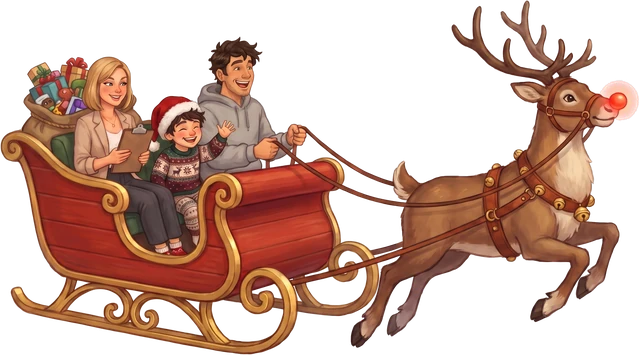
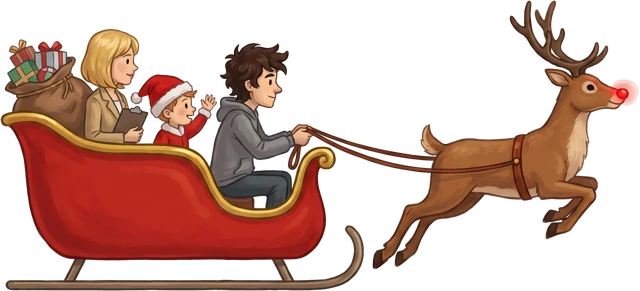
Prezentowy nalot: side-view sleigh art and parachuting pilots
Shot-down planes vanish in a dust cloud and the pilot floats away on a
parachute; the Inez boss escapes the same way. New strict side-view
sleigh art (its animation follows).

Claude-Session: https://claude.ai/code/session_016HTeTL1HdhdTLdUQNXXCi3

diff --git a/prezentowy-nalot/index.html b/prezentowy-nalot/index.html
@@ -82,7 +82,7 @@ const TOUCH=matchMedia('(pointer:coarse)').matches; if(TOUCH){ document.body.cla
 
 // ---------- assets ----------
 const IMG={}, img=n=>{ if(IMG[n]) return IMG[n]; const i=new Image(); i.src='art/'+n+'.webp'; IMG[n]=i; return i; };
-const ART=['bg_night','sleigh','plane_inez','plane_gay','plane_grinch','house1','house2','house3','house4','gift_red','gift_green','gift_blue','gift_purple','gift_stripe','gift_gold','candy','cookie','star','coal','kiss','phone','face_kaka','face_kaczor','face_mikolaj','face_inez'];
+const ART=['bg_night','sleigh','plane_inez','plane_gay','plane_grinch','house1','house2','house3','house4','gift_red','gift_green','gift_blue','gift_purple','gift_stripe','gift_gold','candy','cookie','star','coal','kiss','phone','para_inez','para_gay','para_grinch','face_kaka','face_kaczor','face_mikolaj','face_inez'];
 ART.forEach(img);
 let ANIM={}, HOUSES={};
 const ready=Promise.all([fetch('art/anim/anim.json').then(r=>r.json()).then(j=>{ ANIM=j; for(const k in j) ANIM[k].img=img('anim/'+k); }).catch(()=>{}),
@@ -133,7 +133,7 @@ hold('tShot','shot'); hold('tGift','gift'); hold('tList','list');
 
 // ---------- game state ----------
 let state='title', t0=0, last=performance.now(), shake=0;
-let P, shots, gifts, foes, ebullets, items, parts, popups, houses, scroll, lvlT, score, delivered, glows, boss, bossPhase, flyers, waves, nextHouseX, rng, houseCount;
+let P, shots, gifts, foes, ebullets, items, parts, popups, houses, scroll, lvlT, score, delivered, glows, boss, bossPhase, flyers, waves, dusts, nextHouseX, rng, houseCount;
 const SPEED=175; // ground scroll, px/s
 const LEVEL_LEN=150; // seconds of houses before the boss
 function mulberry(a){ return ()=>{ a|=0; a=a+0x6D2B79F5|0; let t=Math.imul(a^a>>>15,1|a); t=t+Math.imul(t^t>>>7,61|t)^t; return ((t^t>>>14)>>>0)/4294967296; }; }
@@ -142,7 +142,7 @@ const WAVES=[[7,'wave',1,180],[12,'wave',2,260],[18,'dive',1,140],[24,'wave',3,2
 let waveIdx=0;
 function reset(){
   P={x:260,y:220,vx:0,vy:0,hp:3,inv:2,shotCd:0,giftCd:0,triple:0,shield:0,anim:0,tilt:0};
-  shots=[]; gifts=[]; foes=[]; ebullets=[]; items=[]; parts=[]; popups=[]; houses=[]; flyers=[]; waves=[];
+  shots=[]; gifts=[]; foes=[]; ebullets=[]; items=[]; parts=[]; popups=[]; houses=[]; flyers=[]; waves=[]; dusts=[];
   scroll=0; lvlT=0; score=0; delivered=0; glows=2; boss=null; bossPhase=0; waveIdx=0; rng=mulberry(1225); nextHouseX=VW+80; houseCount=0; sub=null;
   // the first houses are already on screen so there is something to aim at right away
   for(let x=520;x<VW+80;x+=0){ x=spawnHouse(x); }
@@ -202,8 +202,9 @@ function update(dt){
   // power-ups
   items.forEach(it=>{ it.t+=dt; it.x+=it.vx*dt; it.y+=Math.sin(it.t*3)*30*dt; if(hitsPlayer(it.x,it.y,30)){ it.t=99; collect(it); } });
   items=items.filter(it=>it.t<12&&it.x>-40);
-  flyers.forEach(f=>{ f.t+=dt; f.vy+=420*dt; f.x+=f.vx*dt; f.y+=f.vy*dt; f.rot+=f.vr*dt; if(Math.random()<.5) parts.push({x:f.x+20,y:f.y,vx:30,vy:-20,t:.8,r:6+Math.random()*6,col:'rgba(70,70,80,.6)'}); });
-  flyers=flyers.filter(f=>f.y<VH+120);
+  flyers.forEach(f=>{ f.t+=dt; f.vy+=(70-f.vy)*Math.min(1,dt*2); f.x+=(-SPEED*.45+Math.sin(f.t*1.3)*25)*dt; f.y+=f.vy*dt; });
+  flyers=flyers.filter(f=>f.y<VH+60&&f.x>-160);
+  dusts.forEach(d=>{ d.t+=dt; d.x-=SPEED*.3*dt; }); dusts=dusts.filter(d=>d.t<1.1);
   waves.forEach(w=>{ w.r+=1350*dt; w.t+=dt;
     foes.forEach(f=>{ if(f.alive&&f.hp>0&&!w.hit.has(f)&&Math.hypot(f.x-w.x,f.y-w.y)<w.r){ w.hit.add(f); damageFoe(f,4); } });
     ebullets.forEach(b=>{ if(b.t>0&&Math.hypot(b.x-w.x,b.y-w.y)<w.r){ b.t=0; puff(b.x,b.y,'#ffe0a0',5); } });
@@ -234,7 +235,7 @@ function updateFoe(f,dt){ f.t+=dt; f.hit=Math.max(0,f.hit-dt);
   if(hitsPlayer(f.x,f.y,40)){ damageFoe(f,9); hurt(); }
   if(f.x<-200||f.y<-200) f.alive=false; }
 function damageFoe(f,d){ f.hp-=d; f.hit=.12; puff(f.x,f.y,'#ffffff',4); if(f.hp<=0){ f.alive=false; score+=150; popups.push({x:f.x,y:f.y-50,txt:'+150',t:1,col:'#fff'}); sfx('defeat',.5); burst(f.x,f.y,'#ff9ccf',16);
-    flyers.push({img:'plane_inez',x:f.x,y:f.y,vx:-80,vy:-120,rot:0,vr:-2.4,t:0,w:170});
+    dust(f.x,f.y,1); flyers.push({img:'para_'+f.kind,x:f.x,y:f.y-20,vy:-40,t:0,w:120});
     if(Math.random()<.22){ const r=Math.random(); items.push({kind:r<.4?'candy':r<.75?'cookie':'star',x:f.x,y:f.y,vx:-90,t:0}); } } }
 function collect(it){ sfx('pick',.5); if(it.kind==='candy'){ P.triple=10; popups.push({x:P.x,y:P.y-90,txt:'Laska cukrowa: potrójne śnieżki!',t:1.6,col:'#ffd1dc'}); }
   else if(it.kind==='cookie'){ P.hp=Math.min(5,P.hp+1); popups.push({x:P.x,y:P.y-90,txt:'Ciasteczko z mlekiem: +1 ❤',t:1.6,col:'#ffe27a'}); }
@@ -245,7 +246,7 @@ function useGlow(){ say('nm_glow',null,true); sfx('glide',.6); blip(220,880,.5,.
 // ---------- boss: Inez in her big pink biplane ----------
 function startBoss(){ boss={x:VW+260,y:240,hp:90,max:90,in:false,mode:'enter',mt:0,t:0,hit:0,dir:1}; bossPhase=1;
   say('ni_boss',()=>setTimeout(()=>say('nz_boss'),250),true); setMusic('music_1.mp3'); }
-function updateBoss(dt){ const b=boss; b.t+=dt; b.mt-=dt; b.hit=Math.max(0,b.hit-dt); if(b.hp<=0){ b.vy=(b.vy||-60)+260*dt; b.x-=60*dt; b.y+=b.vy*dt; b.rot=(b.rot||0)-.8*dt; if(Math.random()<.6) parts.push({x:b.x+40,y:b.y,vx:40,vy:-30,t:1,r:10+Math.random()*10,col:'rgba(70,70,80,.6)'}); if(b.y>VH+200&&state==='play') levelDone(); return; }
+function updateBoss(dt){ const b=boss; b.t+=dt; b.mt-=dt; b.hit=Math.max(0,b.hit-dt); if(b.hp<=0){ b.dead=(b.dead||0)+dt; if(b.dead>4&&state==='play') levelDone(); return; }
   const angry=b.hp<b.max/2;
   if(b.mode==='enter'){ b.x+=(1010-b.x)*Math.min(1,dt*1.5); b.y=240+Math.sin(b.t)*30; if(b.x<1030){ b.in=true; b.mode='float'; b.mt=1.5; } return; }
   if(b.mode==='float'){ b.y=230+Math.sin(b.t*1.3)*120; b.x=1010+Math.sin(b.t*.7)*40; if(b.mt<=0){ const opts=angry?['fan','stream','dash','rain']:['fan','stream','fan','dash']; b.mode=opts[Math.floor(Math.random()*opts.length)]; b.mt=b.mode==='stream'?2.2:b.mode==='dash'?2.6:b.mode==='rain'?2:0.6; b.shot=0; } }
@@ -256,10 +257,11 @@ function updateBoss(dt){ const b=boss; b.t+=dt; b.mt-=dt; b.hit=Math.max(0,b.hit
   if(Math.abs(b.x-P.x)<170&&Math.abs(b.y-P.y)<90) hurt(); }
 function damageBoss(d){ const b=boss; if(b.hp<=0) return; b.hp-=d; b.hit=.1; score+=10; puff(b.x-40+Math.random()*80,b.y-30+Math.random()*60,'#ffffff',3);
   if(b.hp<=b.max/2&&bossPhase===1){ bossPhase=2; popups.push({x:b.x,y:Math.max(140,b.y-120),txt:'Inez się wścieka! 💢',t:1.6,col:'#ff9ccf'}); }
-  if(b.hp<=0){ b.hp=0; score+=2000; sfx('defeat',.8); burst(b.x,b.y,'#ff9ccf',40); shake=.6; ebullets=[]; say('ni_down',null,true); } }
+  if(b.hp<=0){ b.hp=0; score+=2000; sfx('defeat',.8); dust(b.x,b.y,2.2); burst(b.x,b.y,'#ff9ccf',30); shake=.6; ebullets=[]; flyers.push({img:'para_inez',x:b.x,y:b.y-30,vy:-60,t:0,w:210}); say('ni_down',null,true); } }
 
 // ---------- effects ----------
 function puff(x,y,col,n){ for(let k=0;k<n;k++){ const a=Math.random()*6.28, s=60+Math.random()*120; parts.push({x,y,vx:Math.cos(a)*s,vy:Math.sin(a)*s,t:.4+Math.random()*.3,r:3+Math.random()*4,col}); } }
+function dust(x,y,k){ const puffs=[]; for(let i=0;i<14;i++){ const a=Math.random()*6.28, d=Math.random()*40*k; puffs.push({dx:Math.cos(a)*d,dy:Math.sin(a)*d*.7,r:(22+Math.random()*26)*k,vx:Math.cos(a)*(40+Math.random()*80)*k,vy:Math.sin(a)*(30+Math.random()*50)*k-20,sh:180+Math.floor(Math.random()*60)}); } dusts.push({x,y,t:0,puffs}); }
 function burst(x,y,col,n){ for(let k=0;k<n;k++){ const a=Math.random()*6.28, s=120+Math.random()*260; parts.push({x,y,vx:Math.cos(a)*s,vy:Math.sin(a)*s-60,g:300,t:.6+Math.random()*.5,r:3+Math.random()*5,col,star:Math.random()<.5}); } }
 
 // ---------- drawing ----------
@@ -286,10 +288,11 @@ function draw(){
   // items
   items.forEach(it=>{ c.globalAlpha=it.t>10?(Math.floor(it.t*8)%2?.3:1):1; const gl=c.createRadialGradient(it.x,it.y,4,it.x,it.y,34); gl.addColorStop(0,'rgba(255,240,180,.7)'); gl.addColorStop(1,'rgba(255,240,180,0)'); c.fillStyle=gl; c.fillRect(it.x-34,it.y-34,68,68); drawImg(it.kind,it.x,it.y,it.kind==='candy'?26:44); c.globalAlpha=1; });
   // planes falling
-  flyers.forEach(f=>drawImg(f.img,f.x,f.y,f.w,f.rot,.95));
+  flyers.forEach(f=>{ const s=Math.min(1,.3+f.t*2.5); drawImg(f.img,f.x,f.y,f.w*s,Math.sin(f.t*1.8)*.12); });
+  dusts.forEach(d=>{ const k=d.t/1.1; d.puffs.forEach(p=>{ c.globalAlpha=Math.max(0,(1-k))*.85; c.fillStyle=`rgb(${p.sh},${p.sh-8},${p.sh-20})`; c.beginPath(); c.arc(d.x+p.dx+p.vx*d.t,d.y+p.dy+p.vy*d.t,p.r*(.6+k*.8),0,6.29); c.fill(); }); }); c.globalAlpha=1;
   // enemies
   foes.forEach(f=>{ if(f.hit>0) c.filter='brightness(2)'; drawAnim('nl_inez','plane_inez',f.x,f.y,170,f.t+f.base*.01); c.filter='none'; });
-  if(boss){ const b=boss; c.save(); if(b.hit>0) c.filter='brightness(1.8)'; drawAnim('nl_inez','plane_inez',b.x,b.y,320,b.t*1.3,b.rot||0); c.restore(); }
+  if(boss&&boss.hp>0){ const b=boss; c.save(); if(b.hit>0) c.filter='brightness(1.8)'; drawAnim('nl_inez','plane_inez',b.x,b.y,320,b.t*1.3,b.rot||0); c.restore(); }
   // drop guide
   c.save(); c.setLineDash([6,10]); c.strokeStyle='rgba(255,231,122,.28)'; c.lineWidth=2; c.beginPath(); c.moveTo(P.x-40,P.y+50); c.lineTo(P.x-40-120,GROUND-40); c.stroke(); c.restore();
   // sleigh

diff --git a/prezentowy-nalot/README.md b/prezentowy-nalot/README.md
@@ -6,6 +6,7 @@ Part 3 of the Christmas trilogy (after the Kaka living-room game in `kaka/` and 
 - Arrows / WASD fly the sleigh · Space / J: Kaczor throws snowballs · X / K: Mikołaj drops a present · C / L: Rudolf's nose sends out waves of red light that shoot down every plane they reach, wipe out enemy shots and hit the boss hard (2 per level) · P pause · M mute.
 - Phones: drag anywhere to steer, on-screen buttons for snowball, present and Rudolf's nose; subtitles move to the top.
 - Presents drift back with the ground, so drop one when a chimney is just under the sleigh; the chimney marker turns gold ("TERAZ!") when a drop would land in it. A delivered house lights up and its chimney smokes. Hitting the very centre of a chimney scores a bonus.
+- A plane that is shot down vanishes in a cloud of dust and its pilot floats away on a parachute (Inez on pink hearts, Gayzilla on a rainbow, the Grinch on a patched olive one); the Inez boss escapes the same way.
 - Shot-down planes sometimes drop power-ups: candy cane (triple snowballs), cookie with milk (+1 heart), star (shield).
 - Stars at the end of a level: 1 for finishing, 2 for ≥50% of the chimneys, 3 for ≥75%.
 
@@ -13,7 +14,7 @@ Part 3 of the Christmas trilogy (after the Kaka living-room game in `kaka/` and 
 About 2.5 minutes of houses with waves of Inez's pink biplanes (sine waves, dives with kiss volleys, lines), then a boss fight with Inez in a big biplane: kiss fans, homing kiss streams, a dash at the sleigh and, once angry, a rain of kisses. Levels 2 (Gayzilla) and 3 (Grinch) are next; their planes, voice lines and animations are already in `art/` and `audio/`.
 
 ## Assets
-- Art by Gemini (`art/`): sleigh with the family and Rudolf (Kaczor flies bare-headed), three enemy planes, four houses with chimney positions in `houses.json`, a seamless night panorama, presents, power-ups and title art. The Grinch is an original grumpy green goblin design.
+- Art by Gemini (`art/`): sleigh with the family and Rudolf in strict side view (Kaczor flies bare-headed), the three pilots on parachutes, three enemy planes, four houses with chimney positions in `houses.json`, a seamless night panorama, presents, power-ups and title art. The Grinch is an original grumpy green goblin design.
 - Animations by Ludo.ai (`art/anim/`): flying loops for the sleigh and each plane.
 - Voices by ElevenLabs (`audio/`): Kaka (KateCosm), Kaczor (Maks), Inez (Magda) and Gayzilla (kAImil) as in the other games; Mikołaj and the Grinch use fictional-character voices from the ElevenLabs library: "Teddy Twinkle – Cute Cartoon Boy" and "Nib – Mischievous Goblin" (both English-language voices speaking Polish).
 - Music and most sound effects come from *Kaczor do sauny!*; sleigh bells and small blips are synthesised with Web Audio.
